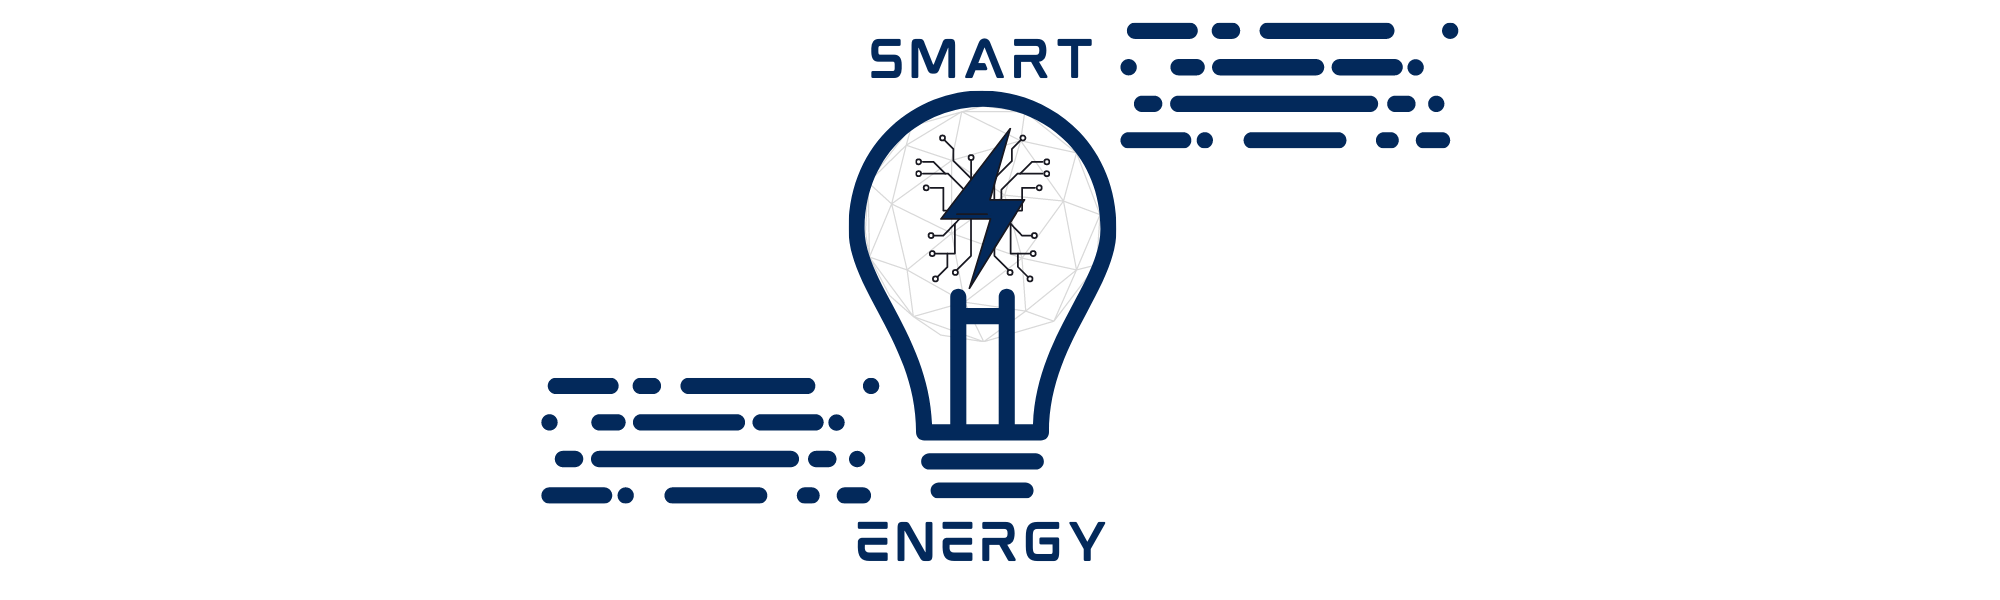
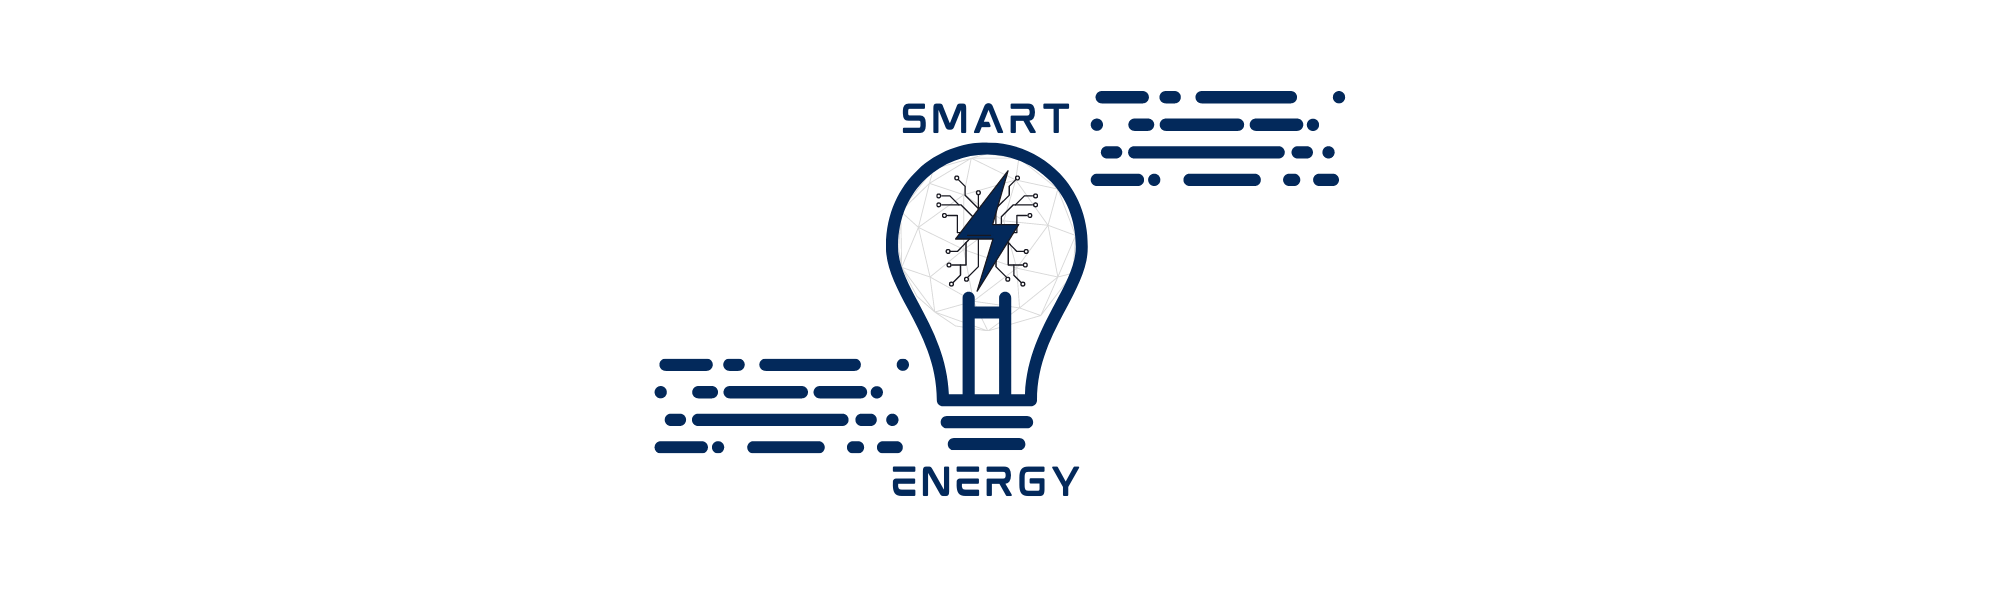
Update Smart V2.0
Mudei a imagem

Changed region(s): [[0.248, 0.03, 0.744, 0.84], [0.403, 0.87, 0.558, 0.93]]

diff --git a/project-smart_energy.md b/project-smart_energy.md
@@ -1,8 +1,10 @@
 ---
 layout: page
+#title: Smart Energy
 cover-img: /assets/img/smart_energy/back-ground_Smart_Energy.png
 ---
-# O BayIEEEmax
+
+# Smart Energy
 
 ## Apresentação
 
@@ -28,7 +30,7 @@ Além disso, a conexão entre Arduino e Lâmpada será por meio do Módulo Relé
 
 ### Esquemático do projeto
 
-<p style="text-align: center;"> <img src="/assets/img/smart_energy/Smart_Energy-Esquematico.jpg" alt="Esquema" height="591" width="951"/> </p>
+<p style="text-align: center;"> <img src="/assets/img/smart_energy/Smart_Energy-Esquematico.jpg" alt="Esquema" height="394" width="634"/> </p>
 
 Então, o projeto é dividido em 2 etapas: automação da lâmpada LED e coleta de dados sobre o consumo energético para fins de análise.
 
